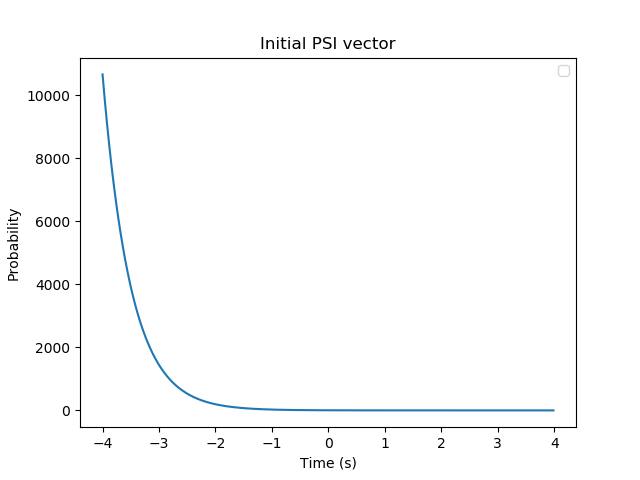
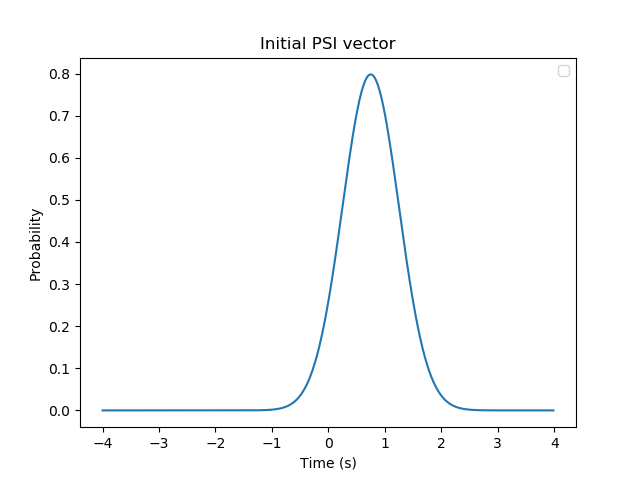
4/23 12:20AM

diff --git a/Phys142_HW1.cpp b/Phys142_HW1.cpp
@@ -11,15 +11,21 @@ const int D = 600;
 
 typedef complex<double> cdouble;
 
-const cdouble I(0,1);
+const cdouble I(0.0,1.0);
 
 const double mass = 1.0;
 const double omega = 1.0;
 const double alpha = 2.0;
+const double hbar = 6.582119 * pow(10,-16); 
 const double xstart = .75;
 const double x0 = -4.0;
 const double xD = 4.0;
 const double deltaX = (xD - x0)/D;
+const double T = 2.0 * M_PI;
+const double deltaT = T/128.0;
+
+vector<cdouble> vecMatMul(vector<cdouble> v, vector<cdouble> m);
+void printCVec(vector<cdouble> v);
 
 int main() {
 	//Init discrete psi vector
@@ -32,14 +38,45 @@ int main() {
 		//cout << tempPsiVal << endl;
 		psiDisc.push_back(tempPsiVal * conj(tempPsiVal));
 	}
+	
+	double A = pow((2*M_PI*hbar*I*deltaT/mass),.5)
+	vector<cdouble> transitionMatrix;
+	int xi;
+	int xj;
+	for(int i=0; i<D; i++) {
+		for(int j=0; j<D; j++) {
+			xi = x0 + i*deltaX;
+			xj = x0 + j*deltaX;
+			transitionMatrix.pushBack((1/A)*exp((I*deltaT/hbar)*((.5*mass*pow(xj-xi,2)/pow(deltaT,2))-(mass*pow(omega,2)*pow((xj+xi)/2,2)))));
+		}
+	}
+	psi = psiDisc;
+	for(int i=0; i<32; i++) {
+		psi = vecMatMul(psi,transitionMatrix);
+	}
+	
+	printCVec(psi);
+	
+}
+
+vector<cdouble> vecMatMul(vector<cdouble> v, vector<cdouble> m) {
+	vector<cdouble> = newVec;
+	for(int i=0; i<D; i++) {
+		cdouble sum = (0.0,1.0);
+		for(int j=0; j<D; j++) {
+			sum+= m.at(i*D + j)*v.at(j);
+		}
+		newVec.pushback(sum);
+	}
+	return newVec;
+}
+
+void printCVec(vector<cdouble> v) {
 	double i = 0;
-	//cout << "Before print loop" << endl;
-	for(cdouble val : psiDisc) {
-		//cout << "in print loop" << endl;
+	for(cdouble val : v) {
 		x = x0 + i*deltaX;
 		i++;
-		cout << x << "	" << real(val) << endl;
+		cout << x << "	" << val*conj(val) << endl;
 	}
-	//cout << "post print loop" << endl;
 }
 
